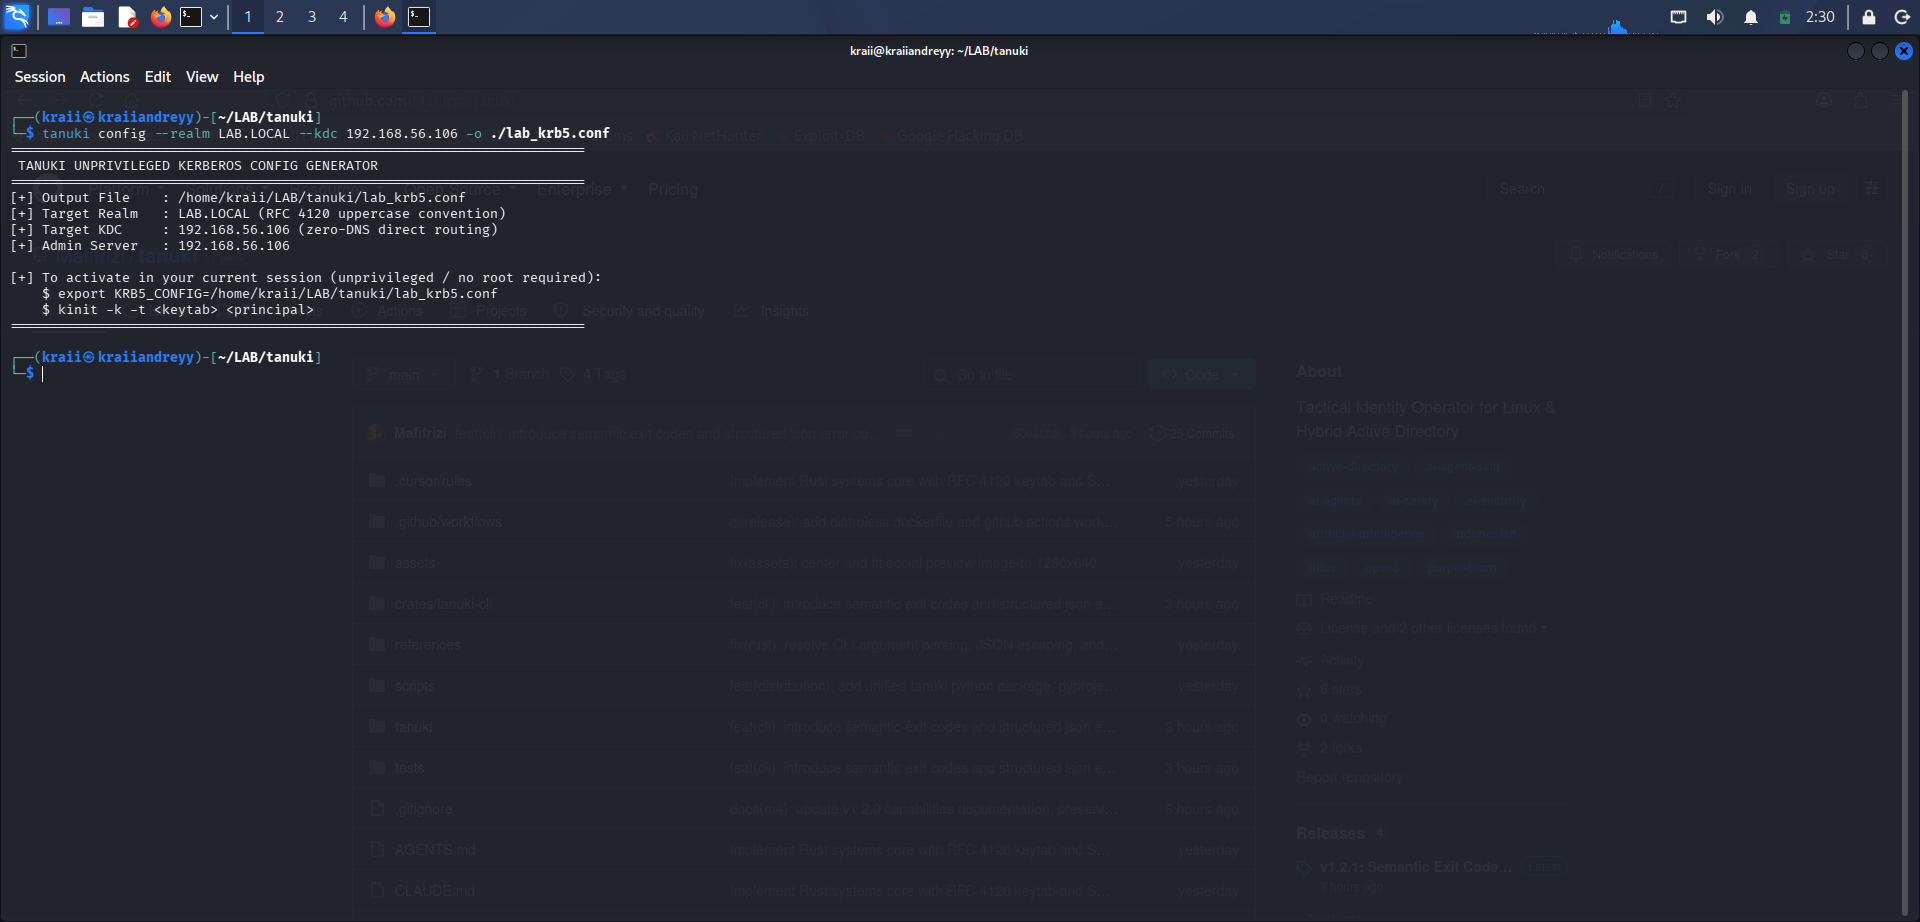
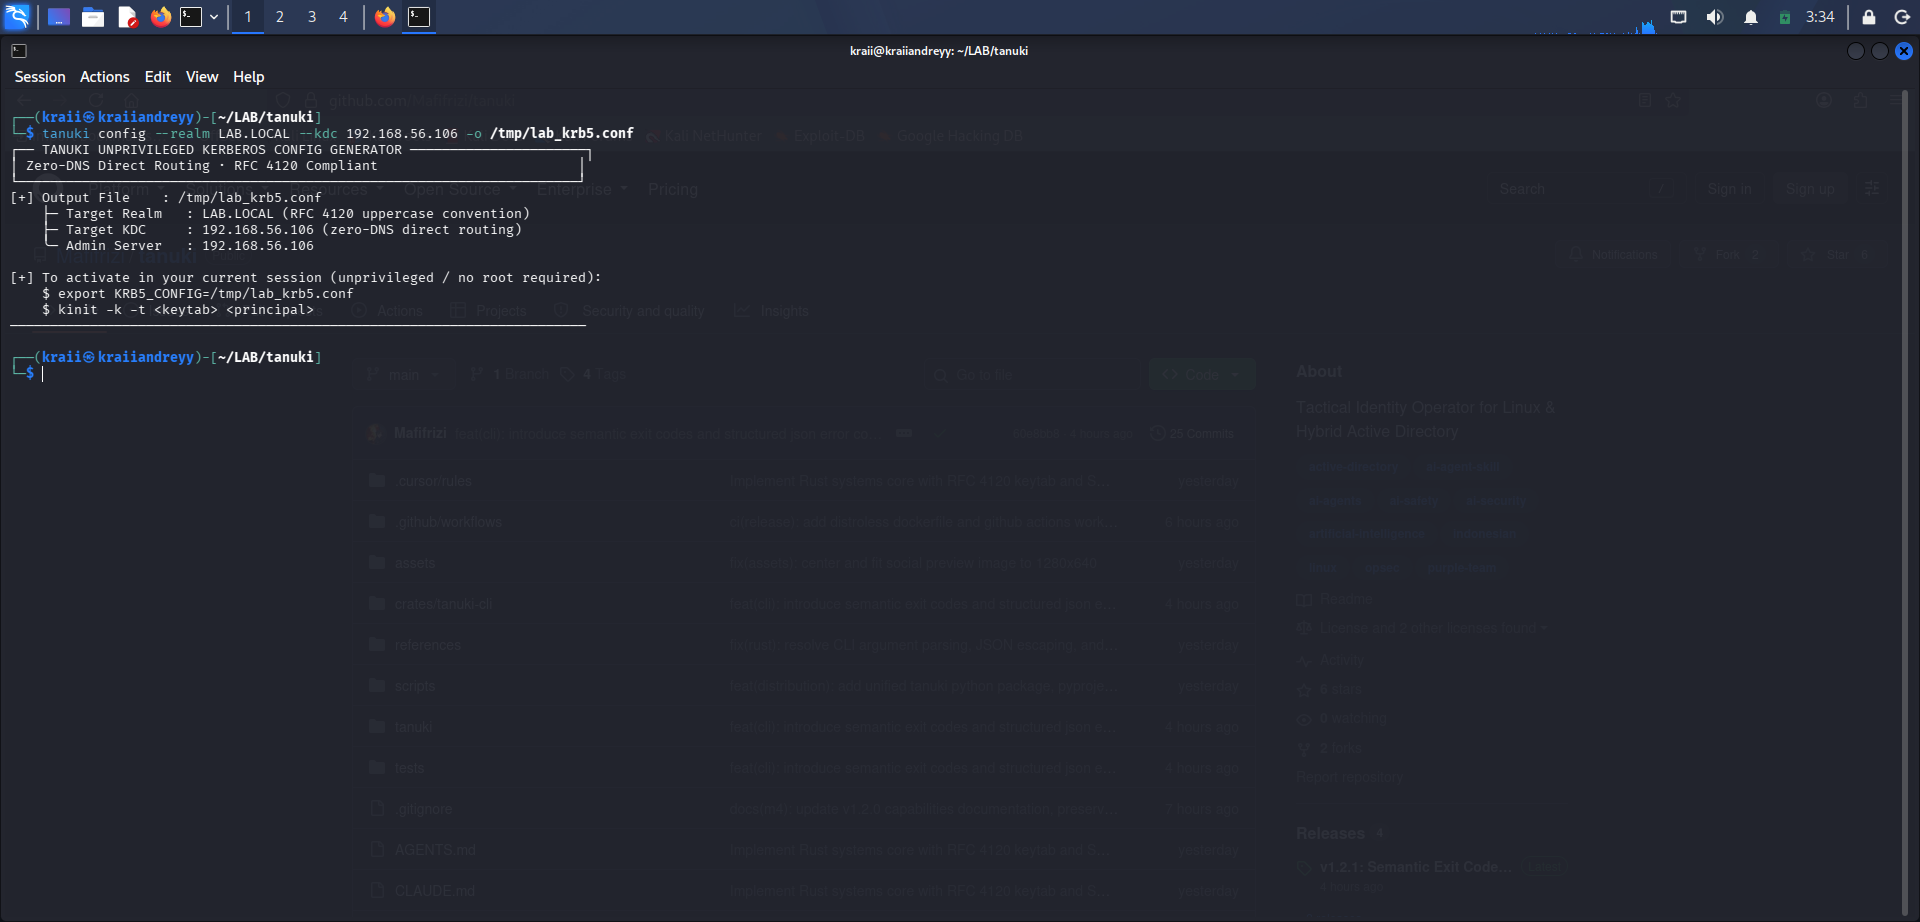
docs(assets): refresh live lab terminal snapshots with card headers and add agent skill manifest

Changed region(s): [[0.0, 0.1215, 0.3438, 0.2733], [0.0, 0.3037, 0.3125, 0.3644]]

diff --git a/README.md b/README.md
@@ -163,6 +163,14 @@ Visualizes the complete OPSEC hierarchy in a pristine, zero-noise terminal inter
   <img src="assets/naga_ladder_run.png" alt="5-Rung Tactical Decision Ladder" width="850">
 </p>
 
+### 9. AI Agent Skill Manifest (`tanuki skill`)
+
+Exports the autonomous agent skill manifest, intellectual lineage, operational triggers, and deterministic execution standard:
+
+<p align="center">
+  <img src="assets/lab-validation-skill.png" alt="AI Agent Skill Manifest" width="850">
+</p>
+
 ---
 
 ## The Decision Ladder
@@ -477,6 +485,7 @@ tanuki/
 │   ├── lab-validation-doctor-env.png
 │   ├── lab-validation-keytab.png
 │   ├── lab-validation-keytab-json.png
+│   ├── lab-validation-skill.png
 │   ├── lab-validation-triage.png
 │   └── naga_ladder_run.png
 ├── scripts/
